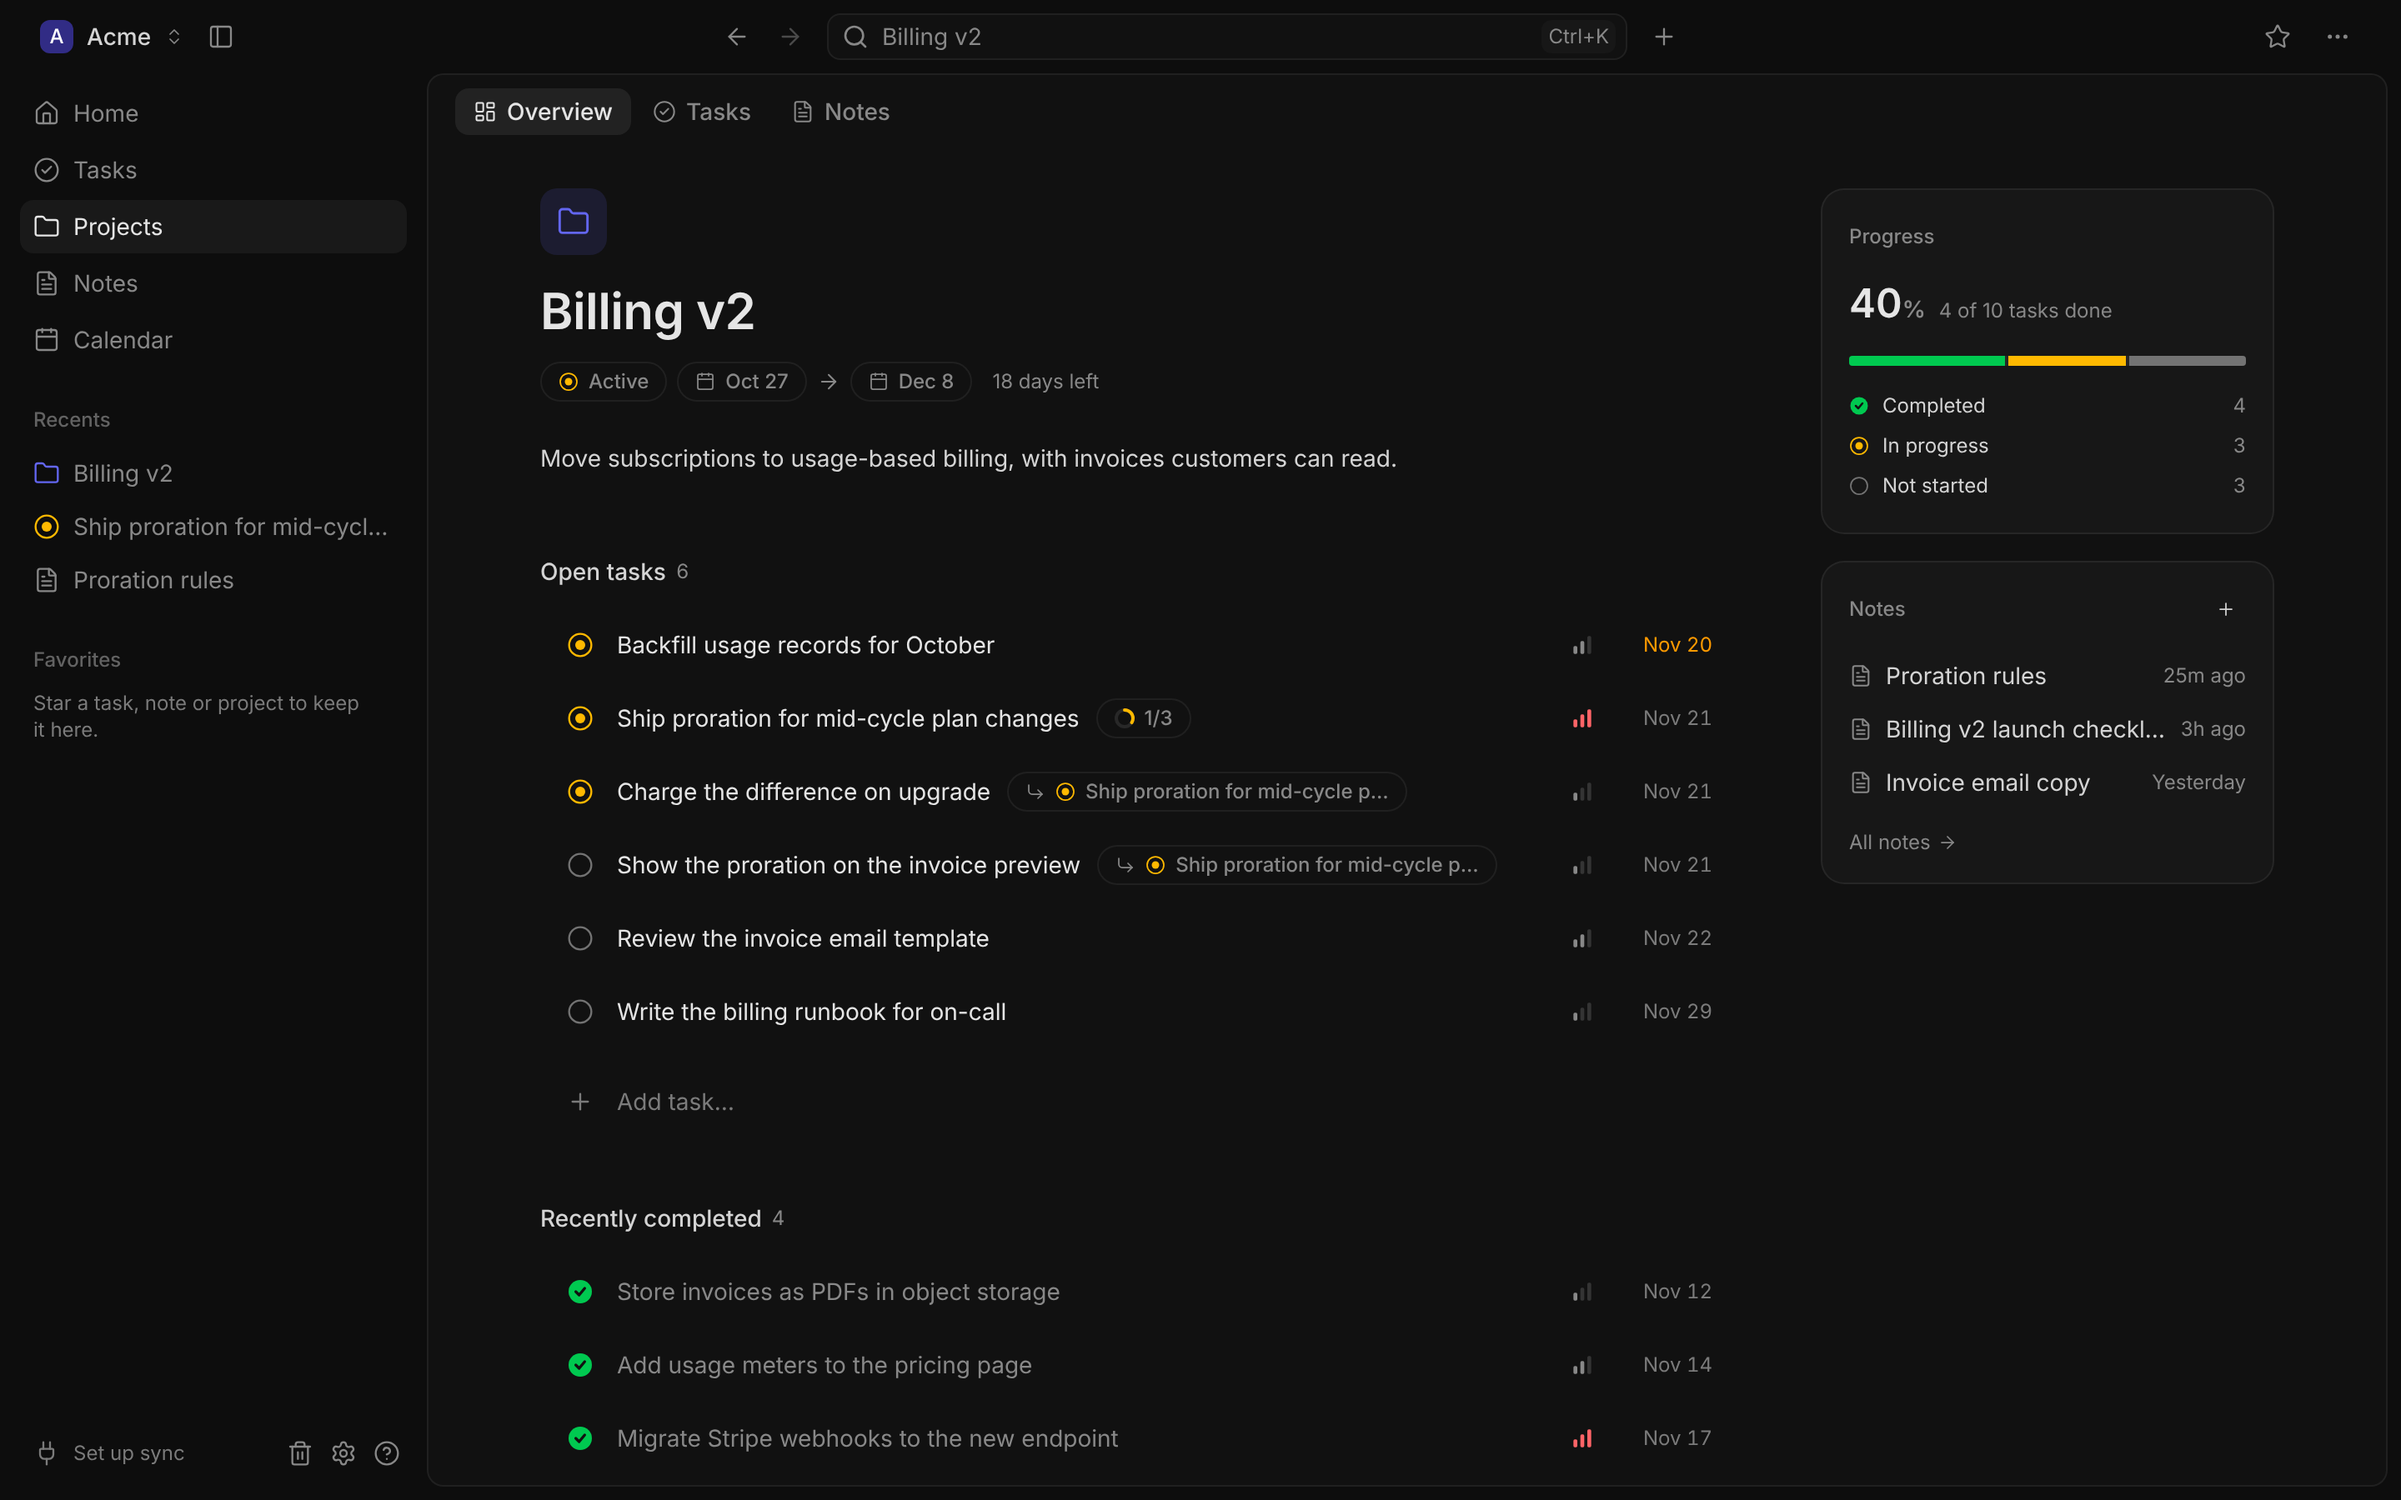
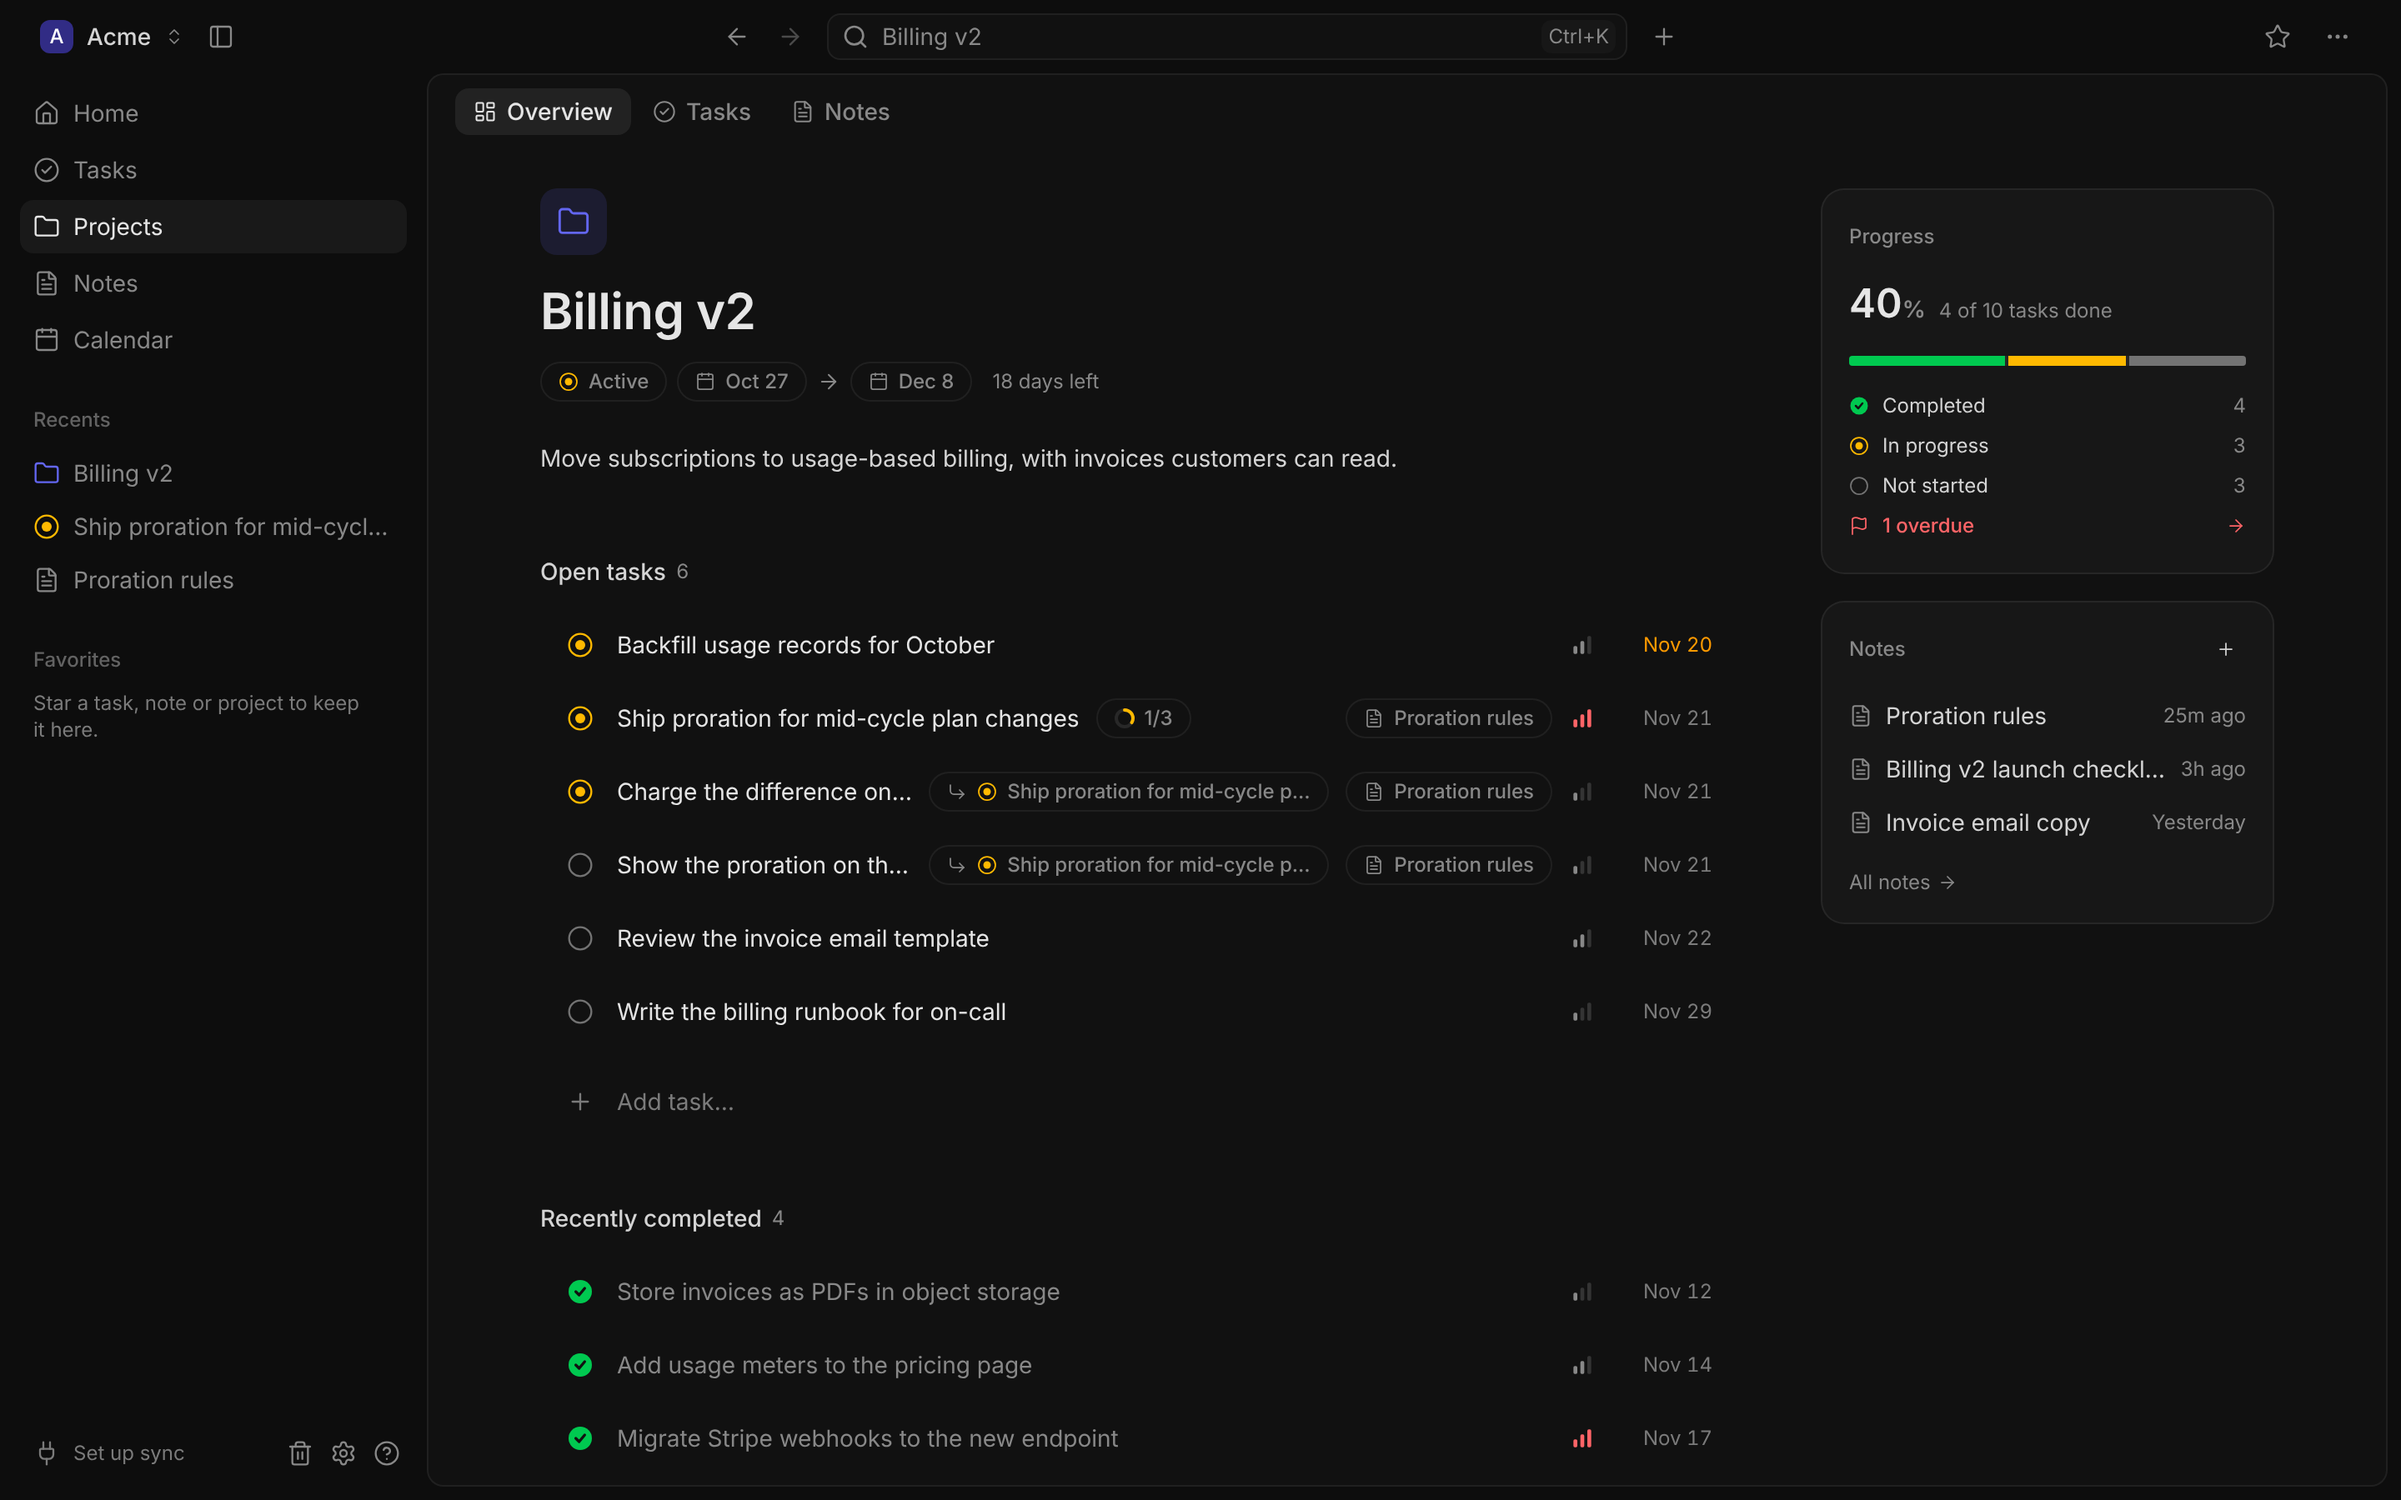
Show a task's linked event or note on the project overview
The overview's task rows dropped the link pill by copying each task with
link: null. Rows now get the cache's tasks as they are, and only the
project pill is left off (showProject={false}).

Claude-Session: https://claude.ai/code/session_01P34MGcdpu6sTPUAdnR5koM

diff --git a/src/renderer/features/projects/components/detail/OverviewTaskSection.tsx b/src/renderer/features/projects/components/detail/OverviewTaskSection.tsx
@@ -45,7 +45,7 @@ export interface OverviewTaskSectionProps {
  * One of the Overview's task sections (Open tasks, Recently completed): a few of the project's
  * tasks as compact rows, with "N more in Tasks" opening the Tasks tab on the rest. Rows change
  * status at once, open on click, and have the row menu and the list keys. They leave out the
- * project pill and the linked note's: the overview is a summary, and the Tasks tab has them. The
+ * project pill, which would name this project on every row, and keep the linked event or note. The
  * "Add task…" row creates a task in the project from its title, and stays open for the next.
  */
 export function OverviewTaskSection({
@@ -61,10 +61,7 @@ export function OverviewTaskSection({
   'data-testid': testId,
 }: OverviewTaskSectionProps) {
   const query = useQuery(options);
-  const tasks = useMemo(
-    () => (query.data?.items ?? []).map((task) => (task.link ? { ...task, link: null } : task)),
-    [query.data],
-  );
+  const tasks = useMemo(() => query.data?.items ?? [], [query.data]);
   const byId = useMemo(() => new Map(tasks.map((t) => [t.id as string, t])), [tasks]);
   const full = (rows: readonly { id: string }[]) => rows.flatMap((row) => byId.get(row.id) ?? []);
   const actions = useTaskActions();

diff --git a/docs/renderer/implementation-plan.md b/docs/renderer/implementation-plan.md
@@ -1438,7 +1438,7 @@ linkedTaskId } })`), separate from the task's event or note link.
      720px) and a rail of cards on the right (one column, the rail under, below 1180px). The document is the header (the tile in the project's colour, which opens Change
      colour; the name as an `EditorTitle size="lg"`, saved as a task's title is; status and
      dates as pills with how long is left; the description), then Open tasks (the soonest due
-     first, eight compact rows without the linked note's pill, an "Add task…" `QuickAddRow` that
+     first, eight compact rows without the project pill, an "Add task…" `QuickAddRow` that
      creates the task in the project, and "N more in Tasks") and Recently completed (three). The
      rail's cards are Progress (the percent, a bar split by status, and a row per status and
      for the overdue tasks, each opening the Tasks tab on them) and the latest notes, with "+"
